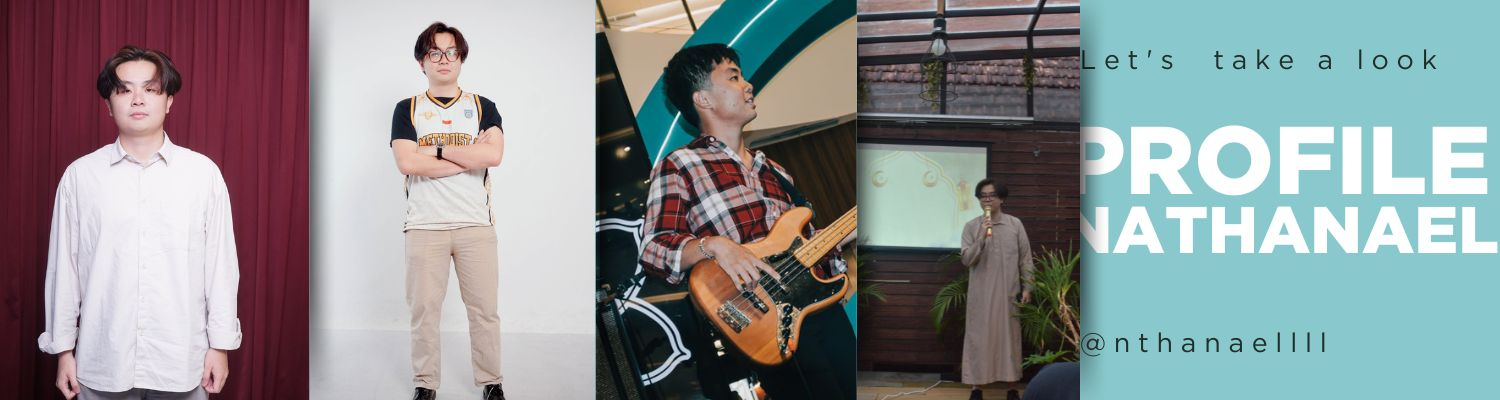
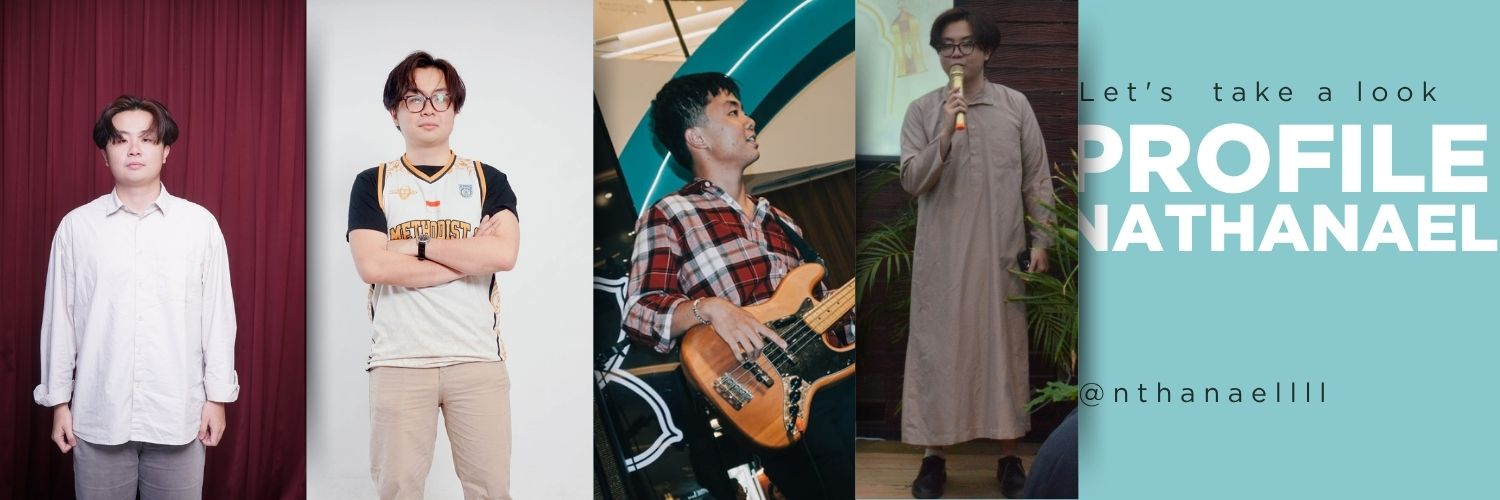
simpan kerjaku dulu

diff --git a/src/ProfileNathanael.jsx b/src/ProfileNathanael.jsx
@@ -12,28 +12,29 @@ const ProfileNathanael = () => {
   return (
     <div className="min-h-screen bg-slate-100 font-sans selection:bg-indigo-200 selection:text-indigo-900 pb-16 bg-[url('https://www.transparenttextures.com/patterns/cubes.png')]">
       
-      {/* --- HEADER PANORAMA (STANDAR LINKEDIN/PORTFOLIO) --- */}
+      {/* --- HEADER PANORAMA (PERBAIKAN: BG-TOP & TALLER) --- */}
       <div 
-        className="w-full h-48 sm:h-64 md:h-72 bg-slate-800 relative bg-cover bg-center"
+        className="w-full h-64 sm:h-80 md:h-[450px] bg-slate-900 relative bg-cover bg-top transition-all duration-500"
         style={{ backgroundImage: "url('/header-bg.jpg')" }} 
       >
-        <div className="absolute inset-0 bg-gradient-to-b from-transparent via-transparent to-slate-900/60 pointer-events-none"></div>
-        <div className="absolute inset-0 bg-[url('https://www.transparenttextures.com/patterns/stardust.png')] opacity-30 pointer-events-none"></div>
+        {/* Gradient diperhalus agar foto atas tetap jernih */}
+        <div className="absolute inset-0 bg-gradient-to-b from-black/10 via-transparent to-slate-900/80 pointer-events-none"></div>
+        <div className="absolute inset-0 bg-[url('https://www.transparenttextures.com/patterns/stardust.png')] opacity-20 pointer-events-none"></div>
       </div>
 
-      {/* --- MAIN CONTENT CONTAINER (Melayang menimpa Header) --- */}
-      <div className="max-w-7xl mx-auto px-4 sm:px-6 lg:px-8 -mt-20 md:-mt-28 relative z-10">
+      {/* --- MAIN CONTENT CONTAINER --- */}
+      <div className="max-w-7xl mx-auto px-4 sm:px-6 lg:px-8 -mt-32 md:-mt-44 relative z-10">
         <div className="bg-white/95 backdrop-blur-xl rounded-[2.5rem] shadow-2xl p-6 sm:p-10 lg:p-12 border border-white/50 transition-all duration-300">
           
           {/* --- TOP SECTION: FOTO (KIRI) & DOWNLOAD CV (KANAN) --- */}
-          <div className="flex flex-col lg:flex-row justify-between items-start lg:items-end -mt-24 md:-mt-32 mb-8 gap-6 lg:gap-0">
+          <div className="flex flex-col lg:flex-row justify-between items-start lg:items-end -mt-28 md:-mt-36 mb-8 gap-6 lg:gap-0">
             
             {/* KIRI: Foto Profil */}
             <div className="relative group cursor-pointer shrink-0">
               <img
                 src="/foto-profil.jpg"
                 alt="Foto Profil Nathanael Eleazar Handata"
-                className="w-40 h-40 md:w-52 md:h-52 rounded-full border-[6px] md:border-[8px] border-white object-cover shadow-2xl transition-all duration-500 group-hover:scale-105 bg-slate-100 relative z-10"
+                className="w-44 h-44 md:w-56 md:h-56 rounded-full border-[6px] md:border-[8px] border-white object-cover shadow-2xl transition-all duration-500 group-hover:scale-105 bg-slate-100 relative z-10"
               />
               <div className="absolute bottom-4 right-4 md:bottom-6 md:right-6 z-20 flex h-7 w-7 md:h-8 md:w-8 items-center justify-center">
                 <span className="animate-ping absolute inline-flex h-full w-full rounded-full bg-green-400 opacity-75"></span>
@@ -42,7 +43,7 @@ const ProfileNathanael = () => {
             </div>
 
             {/* KANAN: Tombol Aksi Utama */}
-            <div className="flex w-full lg:w-auto lg:pb-4">
+            <div className="flex w-full lg:w-auto lg:pb-6">
               <a href="/CV_NATHANAEL.pdf" download className="w-full lg:w-auto px-8 py-3.5 bg-gradient-to-r from-blue-600 to-indigo-600 hover:from-blue-700 hover:to-indigo-700 text-white text-sm font-bold rounded-2xl shadow-lg hover:shadow-indigo-500/40 transition-all flex items-center justify-center gap-2 transform hover:-translate-y-1">
                 <svg className="w-5 h-5" fill="none" stroke="currentColor" viewBox="0 0 24 24"><path strokeLinecap="round" strokeLinejoin="round" strokeWidth="2" d="M4 16v1a3 3 0 003 3h10a3 3 0 003-3v-1m-4-4l-4 4m0 0l-4-4m4 4V4"></path></svg>
                 Download CV
@@ -125,6 +126,17 @@ const ProfileNathanael = () => {
                     <div>
                       <span className="block font-bold text-sm text-white">LinkedIn</span>
                       <span className="block font-medium text-xs text-slate-300 group-hover/btn:text-blue-100">Nathanael Eleazar</span>
+                    </div>
+                  </a>
+
+                  {/* INSTAGRAM BUTTON */}
+                  <a href="https://instagram.com/nthanaellll" target="_blank" rel="noreferrer" className="flex items-center gap-4 bg-white/10 hover:bg-gradient-to-tr hover:from-[#f9ce34] hover:via-[#ee2a7b] hover:to-[#6228d7] p-3.5 rounded-2xl transition-all duration-300 border border-white/10 group/btn transform hover:-translate-y-1">
+                    <div className="bg-gradient-to-tr from-[#f9ce34] via-[#ee2a7b] to-[#6228d7] group-hover/btn:bg-white text-white group-hover/btn:text-[#ee2a7b] p-2 rounded-xl transition-colors">
+                      <svg className="w-5 h-5" fill="currentColor" viewBox="0 0 24 24"><path d="M12 2.163c3.204 0 3.584.012 4.85.07 3.252.148 4.771 1.691 4.919 4.919.058 1.265.069 1.645.069 4.849 0 3.205-.012 3.584-.069 4.849-.149 3.225-1.664 4.771-4.919 4.919-1.266.058-1.644.07-4.85.07-3.204 0-3.584-.012-4.849-.07-3.26-.149-4.771-1.699-4.919-4.92-.058-1.265-.07-1.644-.07-4.849 0-3.204.013-3.583.07-4.849.149-3.227 1.664-4.771 4.919-4.919 1.266-.057 1.645-.069 4.849-.069zm0-2.163c-3.259 0-3.667.014-4.947.072-4.358.2-6.78 2.618-6.98 6.98-.059 1.281-.073 1.689-.073 4.948 0 3.259.014 3.668.072 4.948.2 4.358 2.618 6.78 6.98 6.98 1.281.058 1.689.072 4.948.072 3.259 0 3.668-.014 4.948-.072 4.354-.2 6.782-2.618 6.979-6.98.059-1.28.073-1.689.073-4.948 0-3.259-.014-3.667-.072-4.947-.196-4.354-2.617-6.78-6.979-6.98-1.281-.059-1.69-.073-4.949-.073zm0 5.838c-3.403 0-6.162 2.759-6.162 6.162s2.759 6.163 6.162 6.163 6.162-2.759 6.162-6.163-2.759-6.162-6.162-6.162zm0 10.162c-2.209 0-4-1.79-4-4 0-2.209 1.791-4 4-4s4 1.791 4 4c0 2.21-1.791 4-4 4zm6.406-11.845c-.796 0-1.441.645-1.441 1.44s.645 1.44 1.441 1.44c.795 0 1.439-.645 1.439-1.44s-.644-1.44-1.439-1.44z"/></svg>
+                    </div>
+                    <div>
+                      <span className="block font-bold text-sm text-white">Instagram</span>
+                      <span className="block font-medium text-xs text-slate-300 group-hover/btn:text-pink-100">@nthanaellll</span>
                     </div>
                   </a>
 
